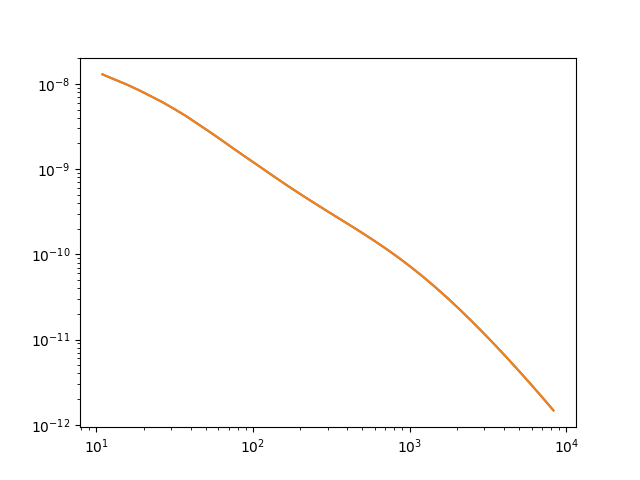
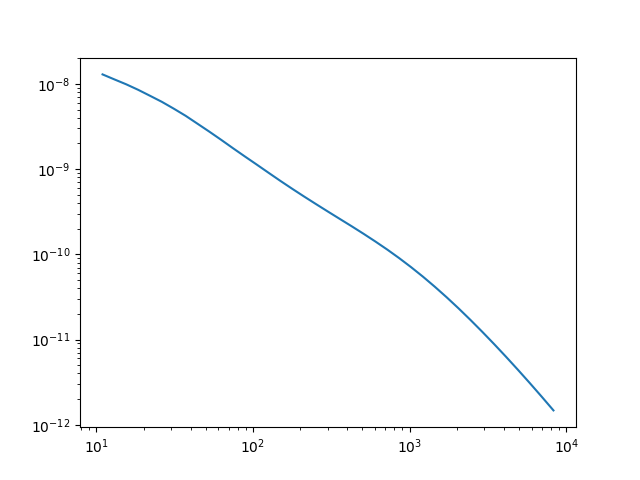
fixed: cl sup plot

diff --git a/tests/test_cl_sup.py b/tests/test_cl_sup.py
@@ -6,6 +6,7 @@ import matplotlib.pyplot as plt
 
 pkcl = pk.Cl_kk_supp()
 pkcl.zsrc = 0.4
+pkcl.alphas = np.arange(20)/40
 cents,data_binned,cinv = pkcl.make_mock_data(sup=True)
 cl_arr = np.vstack((cents,data_binned))
 np.savetxt("../mock_data/mock_sup_cl_0.4.txt",cl_arr)
